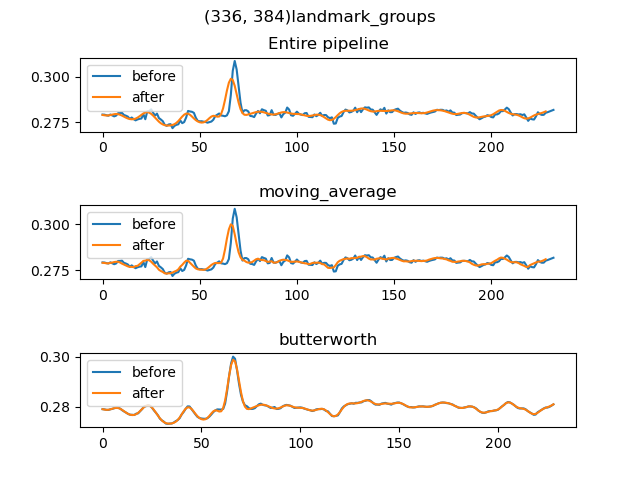
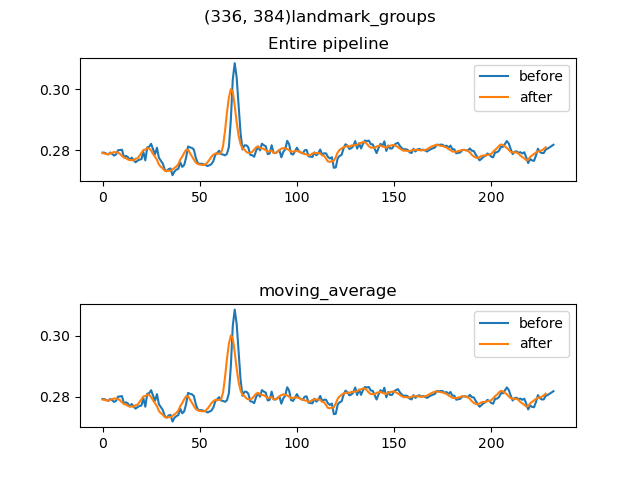
finish signal processor

diff --git a/feature_extraction2/signal_processing/signalprocessor.py b/feature_extraction2/signal_processing/signalprocessor.py
@@ -27,7 +27,7 @@ class SignalProcessor:
         
         for k, v in self.pairs_to_avg.items(): 
             res.append(k)
-            res + v
+            res = res + v
             
         return list(set(res))
 
@@ -39,18 +39,18 @@ class SignalProcessor:
             avg_index = self.pipeline.index("avg_across_signals")
             preavg_pipeline = self.pipeline[:avg_index]
             postavg_pipeline = self.pipeline[avg_index+1:]
-
-            pdata, ndata = self.filter_and_preavg_process(preavg_pipeline, dframe)
-            self.average_across_signals()
-
-            #average 
             
-            print(preavg_pipeline)
-            print(postavg_pipeline)
+
+            pre, ndata = self.filter_and_preavg(preavg_pipeline, dframe)
+            avg = self.avg_across_signals(pre)
+            pdata, n = self.postavg(postavg_pipeline, avg)
+
         else:
-            pdata, ndata = self.filter_and_preavg_process(self.pipeline, dframe)
-        self.make_plots(plotdir, fname)
+            pdata, ndata = self.filter_and_preavg(self.pipeline, dframe)
         
+        self.make_plots(plotdir, fname)
+        return pdata, ndata
+
     
     def make_plots(self, plotdir, fname): 
         if not os.path.exists(plotdir):
@@ -60,34 +60,58 @@ class SignalProcessor:
             self.plot_tracker[str(lkey)][0]["after"] = self.plot_tracker[str(lkey)][self.last_step]["after"]
             self.plot_res(self.plot_tracker[str(lkey)], str(lkey) + fname, plotdir)
 
-        
-    def filter_and_preavg_process(self, pipeline, dframe): 
+    def postavg(self, pipeline, data):
         pdata = {}
         ndata = {}
+        for pair, signal in data.items():
+            n, p, i = self.process_signal(signal, pipeline, pair)
+            pdata[pair] = p
+            ndata[pair] = n
+        if len(pipeline) > 0: 
+            self.last_step = self.last_step + i + 1
+        return pdata, ndata
+    
+    def process_row(self, row, pipeline):
+        l = row["Raw_data"].replace("]", "").replace("[", "").split(",")
+        l = [float(i) for i in l]
+        pair = row["Landmark_key"]
+        self.plot_tracker[pair] = {
+            0 : {
+                "type" : "Entire pipeline", 
+                "before" : l, 
+                "after" : []
+            }
+        }
+        p, n, i = self.process_signal(l, pipeline, pair)
+        return p, n, i, pair
+
+    def filter_and_preavg(self, pipeline, dframe): 
+        pdata = {}
+        ndata = {}
+        i = 0
         for index, row in dframe.iterrows():
-            if not self.should_filter or (any(str(lkey) in row["Landmark_key"] for lkey in self.lkeys)): 
-                l = row["Raw_data"].replace("]", "").replace("[", "").split(",")
-                l = [float(i) for i in l]
-                pair = row["Landmark_key"]
-                self.plot_tracker[pair] = {
-                    0 : {
-                        "type" : "Entire pipeline", 
-                        "before" : l, 
-                        "after" : []
-                    }
-                }
-                n, p, i = self.process_signal(l, pipeline, pair)
-     
+            if self.should_filter:
+                if (any(str(lkey) == row["Landmark_key"] for lkey in self.filter_lkeys)): 
+                    p, n, i, pair = self.process_row(row, pipeline)
+                    pdata[pair] = p
+                    ndata[pair] = n 
+                    
+            else: 
+                p, n, i, pair = self.process_row(row, pipeline)
                 pdata[pair] = p
                 ndata[pair] = n 
-        self.last_step = self.last_step + i + 1
+
+        if len(pipeline) > 0: 
+            self.last_step = self.last_step + i + 1
+       
         return pdata, ndata
          
                 
     def process_signal(self, raw, pipeline, pair): 
         normed_raw = self.min_max_norm(raw)
         curr_signal = raw
-      
+        
+        i = 0
         for i, ptype in enumerate(pipeline):
             self.plot_tracker[pair][self.last_step + i + 1] = {"type" : ptype, "before":curr_signal}
             if ptype == "moving_average": 
@@ -101,8 +125,7 @@ class SignalProcessor:
                 print("please revisit configuration file and enter a valid signal processing type")
             self.plot_tracker[pair][self.last_step + i + 1]["after"] = curr_signal
        
-        
-        return normed_raw, curr_signal, i
+        return curr_signal, normed_raw, i
         
     
     def butterworth(self, original):
@@ -135,39 +158,26 @@ class SignalProcessor:
         return d_scaled
 
 
-    def avg_one_pair(self, pairs_toavg, row1_data, pd_df):
-        averaged = row1_data
+    def avg_one_pair(self, pairs_toavg, data, lkey):
+        averaged = data[str(lkey)]
         for toavg in pairs_toavg: 
-            nextrow_index = pd_df.index[pd_df["Landmark_key"] == str(toavg)]
-            nextrow_data = pd_df["Processed"].loc[nextrow_index].values[0]
-             
+            nextrow_data = data[str(toavg)]
             averaged = [(g + h) / 2 for g, h in zip(averaged, nextrow_data)]
 
         return averaged
 
 
-    def avg_across_signals(self, data, postavg_process, target_pairs, pairs_for_avg):
+    def avg_across_signals(self, original):
         res = {}
-        for fname, pd_df in data.items(): 
-            avg_data = {"Landmark_key" : [], "Distances" : [], "Normalized" : [], "Processed" : []}
-        
-            for index, row in pd_df.iterrows(): 
-                if any(row["Landmark_key"] == str(pair) for pair in target_pairs):
-                    
-                    tup = eval(row["Landmark_key"].replace("(", "").replace(")", ""))
-                    toavg_pairs = pairs_for_avg[tup]
-                    averaged = self.avg_one_pair(toavg_pairs, row["Processed"], pd_df)
-                
-                    normed, p = self.process_signal(averaged, postavg_process)
-    
-                    avg_data["Landmark_key"].append(str(tup))
-                    avg_data["Distances"].append(row["Distances"])
-                    avg_data["Normalized"].append(row["Normalized"])
-                    avg_data["Processed"].append(p)
-                    
-            avg_df = pd.DataFrame(avg_data)
-            res[fname] = avg_df
-                    
+        self.last_step += 1
+        for lkey, lkeys in self.pairs_to_avg.items():
+            res[str(lkey)] = self.avg_one_pair(lkeys, original, lkey)
+            self.plot_tracker[str(lkey)][self.last_step] = {
+                "type" : "avg_across_signals", 
+                "before" : original[str(lkey)], 
+                "after" : res[str(lkey)]
+            }
+
         return res
 
 

diff --git a/feature_extraction2/pipeline_comparison/pipelinecomparator.py b/feature_extraction2/pipeline_comparison/pipelinecomparator.py
@@ -1,0 +1,43 @@
+    def box_and_whisker(self, data, f, titles): 
+        plt.clf()
+        plt.boxplot(data[f]["avgs"])
+        plt.xticks(data[f]["index"], data[f]["xlabels"], rotation=80)
+        plt.suptitle(titles[f])
+        fname = f.replace(".txt", "")
+        plt.savefig(fname, bbox_inches='tight')  
+              
+    
+    def scatter_plot(self, tocomparefiles, dirs, titles, markers, data):
+        plt.clf()
+        pairdata = {dirs[0] : {}, dirs[1] : {}}
+        tempdata = {dirs[0] : [], dirs[1] : []}
+    
+        for i, d in enumerate(dirs):
+            simavg = {}
+            diffavg = {}
+            for f in tocomparefiles: 
+                for tup, avg in data[f]["pairs"][d].items():
+                    if "angle" in f: 
+                        simavg[tup] = avg
+                    elif "utterance" in f:
+                        diffavg[tup] = avg
+                    # elif tup in diffavg:
+                    #     diffavg[tup] = float((diffavg[tup] + avg) / 2)
+                    # else: 
+                    #     diffavg[tup] = avg
+            
+            for k, v in simavg.items():
+                diff = diffavg[k]
+                pairdata[d][k] = (v, diff)
+                tempdata[d].append((v, diff))
+                plt.plot(v, diff, marker=markers[d], label=k)
+
+       
+        plt.xlabel("Pearson Correlation for Similarity Test Cases")
+
+        plt.ylabel("Pearson Correlation for Differences Test Cases")
+        # handles, labels = plt.gca().get_legend_handles_labels()
+        # by_label = dict(zip(labels, handles))
+        plt.legend(bbox_to_anchor=(1.0, 2),loc="upper left")
+        plt.savefig("scatterplottest2", bbox_inches='tight')  
+            

diff --git a/feature_extraction2/driver.py b/feature_extraction2/driver.py
@@ -68,7 +68,7 @@ class Driver:
                 draw_anchor_target_connector = self.vidp_settings["draw anchor target connector?"],
                 output_directory = self.output_dir + "videos/")
 
-            landmark_coords, landmark_single, landmark_groups = app.process_video()
+            landmark_coords, landmark_single, landmark_groups = app.run()
             pathsplit = vid.split('/')
             self.write_data_to_csv(landmark_coords, pathsplit[1], "coords", self.dirs["vid data output"])
             self.write_data_to_csv(landmark_single, pathsplit[1], "landmark_single", self.dirs["vid data output"])
@@ -87,10 +87,14 @@ class Driver:
             self.sigp_settings["pairs to avg"])
  
         for dirname in self.sigp_settings["files"]:
-            for fname in self.sigp_settings["datatype"]:
-                dframe = self.read_data_from_csv(dirname, fname, self.dirs["vid data output"])
-         
-                signalprocessor.run(dframe, dirname, fname)     
+    
+            dframe = self.read_data_from_csv(dirname, self.sigp_settings["datatype"], self.dirs["vid data output"])
+            processed, normed = signalprocessor.run(dframe, dirname, self.sigp_settings["datatype"])    
+            path = dirname.replace("/","")
+            self.write_data_to_csv(processed, path, "processed", self.dirs["sig processing data output"]) 
+            self.write_data_to_csv(processed, path, "normed", self.dirs["sig processing data output"]) 
+
+
     
     def run_signal_comparison(self): 
         for sim in self.sim_test_cases: 

diff --git a/feature_extraction2/video_processing/mp_extractor.py b/feature_extraction2/video_processing/mp_extractor.py
@@ -419,7 +419,7 @@ class MPFeatureExtractor(object):
         Tracks landmark data where two or more landmark coordinates are needed, for instance tracking pairwise distances
         """
         if "pairwise_distances" in self.output_data:
-            for pair in self.pairs_to_plot:
+            for pair in self.pairs_to_analyze:
                 coord1 = self.curr_frame_aligned_landmarks_3d[pair[0]]
                 coord2 = self.curr_frame_aligned_landmarks_3d[pair[1]]
                 if (pair[0] in self.landmarks["upper"] and pair[1] in self.landmarks["upper"]) or (pair[0] in self.landmarks["lower"] and pair[1] in self.landmarks["lower"]):
@@ -541,7 +541,7 @@ class MPFeatureExtractor(object):
         return False  
 
     
-    def process_video(self):
+    def run(self):
         """
         main function that runs this class
         """

diff --git a/feature_extraction2/driver_config.py b/feature_extraction2/driver_config.py
@@ -17,7 +17,7 @@ Directories = {
 VideoProcessing = {
    "initial detect?" : True,
    "draw all landmarks?" : True,
-   "generate video?": True,
+   "generate video?": False,
    "output data" : ["pairwise_distances", "anchor_distances"],
    "anchor landmark" : 5, 
    "display dim" : 800, 
@@ -53,8 +53,8 @@ VideoProcessing = {
 
 SignalProcessing = {
    "files" : ["kelly_front_s2_v1/", "krithika_front_s2_v1/"], 
-   "datatype" : ["landmark_groups", "landmark_single", "coords"],  
-   "pipeline" : ["moving_average", "avg_across_signals", "butterworth"], 
+   "datatype" : "landmark_groups",  
+   "pipeline" : ["moving_average"], 
    "moving avg window" : 5, 
    "butter settings" : {
       "fs" : 30, 

diff --git a/feature_extraction2/results/run_number_1/config_copy.py b/feature_extraction2/results/run_number_1/config_copy.py
@@ -17,7 +17,7 @@ Directories = {
 VideoProcessing = {
    "initial detect?" : True,
    "draw all landmarks?" : True,
-   "generate video?": True,
+   "generate video?": False,
    "output data" : ["pairwise_distances", "anchor_distances"],
    "anchor landmark" : 5, 
    "display dim" : 800, 
@@ -53,8 +53,8 @@ VideoProcessing = {
 
 SignalProcessing = {
    "files" : ["kelly_front_s2_v1/", "krithika_front_s2_v1/"], 
-   "datatype" : ["landmark_groups", "landmark_single", "coords"],  
-   "pipeline" : ["moving_average", "avg_across_signals", "butterworth"], 
+   "datatype" : "landmark_groups",  
+   "pipeline" : ["moving_average"], 
    "moving avg window" : 5, 
    "butter settings" : {
       "fs" : 30, 
